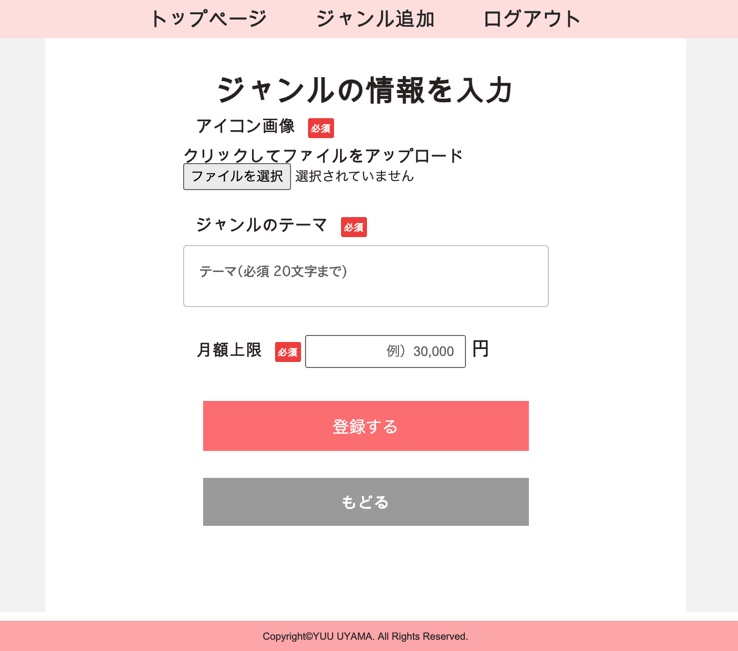
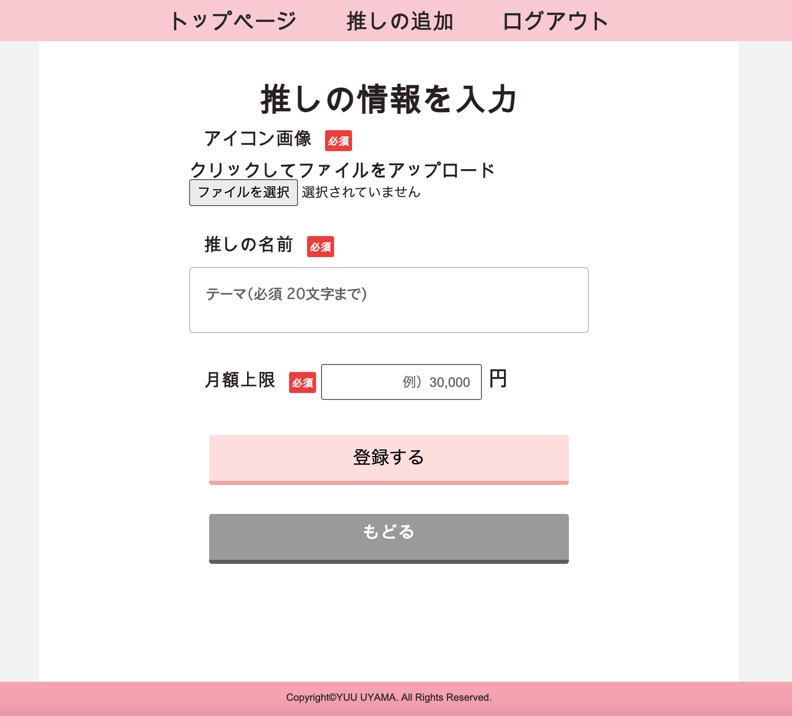
デザイン変更

diff --git a/app/assets/stylesheets/items.scss b/app/assets/stylesheets/items.scss
@@ -5,7 +5,7 @@
 /* アイテムリスト */
 .item-list{
   list-style: none;
-  background-color:#fbd7d7;
+  background-color:#d6ebff;
 }
 .item-list a{
   text-decoration: none;
@@ -13,7 +13,7 @@
 }
 
 .item-list-sub{
-  background-color: #ffeeee;
+  background-color: #eff7ff;
   font-size: 2.5vmin;
 }
 
@@ -28,13 +28,13 @@ table td {
 
 table {
   border-collapse: collapse;
-  border: solid 2px pink;
+  border: solid 2px #ffffff;
   width: 100%;
   white-space: nowrap;
   }
 
 table th, table td {
-  border: solid 1px pink;
+  border: solid 3px #e0e0e0;
 }
 
 .table-lists{
@@ -48,30 +48,110 @@ table th, table td {
   height: 3vmin;
 }
 
-.add-to{
-  margin: 10px;
-}
 .add-to a{
   text-decoration: none;
-  background-color: #ffe5e5;
   color: #333;
   padding: 3px 20px;
   border-radius: 20px;
 }
 
-.btn{
-  border: solid 2px white;
-  background-color: #ffe5e5;
-  border-radius: 20px;
-  padding: 5px;
+.add-to {
+  margin: 10px;
+  display: inline-block;
+  position: relative;
+  padding: 0.2em 0.8em;
+  text-decoration: none;
+  background: #ffe5e5;/*ボタン色*/
+  color:  #333;
+  border-bottom: solid 5px #fc9c9c;/*ボタン色より暗めに*/
+  border-right: solid 5px #fab1b1;/*ボタン色より暗めに*/
 }
+
+
+.add-to:before {  
+  content: " ";
+  position: absolute;
+  bottom: -5px;
+  left: -1px;
+  width: 0;
+  height: 0;
+  border-width: 0 6px 6px 0px;
+  border-style: solid;
+  border-color: transparent;
+  border-bottom-color: #FFF;
+}
+
+.add-to:after {  
+  content: " ";
+  position: absolute;
+  top: -1px;
+  right: -5px;
+  width: 0;
+  height: 0;
+  border-width: 0px 6px 6px 0px;
+  border-style: solid;
+  border-color: #FFF;
+  border-bottom-color: transparent;
+}
+
+.add-to:active {
+  /*ボタンを押したとき*/
+  border:none;
+  -webkit-transform: translate(6px,6px);
+  transform: translate(6px,6px);
+}
+
+.add-to:after, .btn-square-slant:active:before {
+  content: none;/*ボタンを押すと線が消える*/
+}
+
+
 
 /* Twitter */
-
-.share_link_twitter{
-  border: solid 2px white;
-  background-color: #a7ddff;
-  border-radius: 20px;
-  font-size: 3vmin;
-}
-
+.share_link_twitter {
+    display: inline-block;
+    position: relative;
+    padding: 0.2em 0.8em;
+    text-decoration: none;
+    background: #7ea4f5;/*ボタン色*/
+    color: white;
+    border-bottom: solid 5px #36528c;/*ボタン色より暗めに*/
+    border-right: solid 5px #5375bd;/*ボタン色より暗めに*/
+  }
+  
+  .share_link_twitter:before {  
+    content: " ";
+    position: absolute;
+    bottom: -5px;
+    left: -1px;
+    width: 0;
+    height: 0;
+    border-width: 0 6px 6px 0px;
+    border-style: solid;
+    border-color: transparent;
+    border-bottom-color: #FFF;
+  }
+  
+  .share_link_twitter:after {  
+    content: " ";
+    position: absolute;
+    top: -1px;
+    right: -5px;
+    width: 0;
+    height: 0;
+    border-width: 0px 6px 6px 0px;
+    border-style: solid;
+    border-color: #FFF;
+    border-bottom-color: transparent;
+  }
+  
+  .share_link_twitter:active {
+    /*ボタンを押したとき*/
+    border:none;
+    -webkit-transform: translate(6px,6px);
+    transform: translate(6px,6px);
+  }
+  
+  .share_link_twitter:active:after, .btn-square-slant:active:before {
+    content: none;/*ボタンを押すと線が消える*/
+  }

diff --git a/app/assets/stylesheets/shared/about.scss b/app/assets/stylesheets/shared/about.scss
@@ -1,7 +1,7 @@
 .about-contents{
   width: 100vw;
   padding: 0 0 040px;
-  background-image: image-url('5422.jpg');
+  background-image: image-url('about.jpg');
   background-size: cover;
 }
 
@@ -17,7 +17,7 @@
 }
 .about-content-1{
   width: 100vw;
-  background-color: #fdeff2;
+  background-color: #eff7ff;
   background-size: cover;
   padding: 40px;
 }
@@ -28,7 +28,7 @@
 }
 .about-content-3{
   width: 100vw;
-  background-color:  #fdeff2;
+  background-color: #eff7ff;
   background-size: cover;
   padding: 40px;
 }
@@ -107,7 +107,7 @@
 .balloon3{
   position: relative;
   padding: 20px;
-  background:#f8cfd6;
+  background:#f8c4cd;
   font-size: 2.5vmin;
   text-align: center;
   margin: auto;
@@ -123,7 +123,7 @@
   height: 0;
   left: -15px;
   top: 20px;
-  border-right: 15px solid #f8cfd6;
+  border-right: 15px solid#f8c4cd;
   border-top: 15px solid transparent;
   border-bottom: 15px solid transparent;
 }
@@ -131,7 +131,7 @@
 .balloon4{
   position: relative;
   padding: 20px;
-  background:#fcd8de;
+  background:#fae7ea;
   font-size: 2.5vmin;
   text-align: center;
   margin: auto;
@@ -147,7 +147,7 @@
   height: 0;
   right: -15px;
   top: 20px;
-  border-left: 15px solid #fcd8de;
+  border-left: 15px solid #fae7ea;
   border-top: 15px solid transparent;
   border-bottom: 15px solid transparent;
 }

diff --git a/app/assets/stylesheets/genres/new.css b/app/assets/stylesheets/genres/new.css
@@ -122,21 +122,59 @@
 }
 
 .input-btn {
-  background: #ff8484;
-  border: 1px solid #ff8484;
-  color: #fff;
   width: 100%;
   height: 50px;
   font-size: 2.5vmin;
   margin-bottom: 4vh;
+  text-align: center;
+  border: none;
+}
+
+.input-btn a{
+  color: #333;
+  padding: 5px 20px;
+}
+
+.input-btn {
+  padding: 0.5em 1em;
+  background:#ffe5e5;/*ボタン色*/
+  border-bottom: solid 4px #f8b2b2;
+  border-radius: 3px;
+}
+.input-btn:active {
+  /*ボタンを押したとき*/
+  -webkit-transform: translateY(4px);
+  transform: translateY(4px);/*下に動く*/
+  border-bottom: none;/*線を消す*/
 }
 
 .back-btn {
-  background: #aaa;
-  border: 1px solid #aaa;
-  color: #fff;
-  padding: 15px 20%;
   text-decoration: none;
   font-size: 2.5vmin;
+  text-align: center;
+}
+
+.back-btn {
+  width: 100%;
+  height: 50px;
+  font-size: 2.5vmin;
+  margin-bottom: 4vh;
+  text-align: center;
+  border: none;
+}
+
+.back-btn {
+  color: #fff;
+  padding: 0.5em 1em;
+  background:#aaa;/*ボタン色*/
+  border-bottom: solid 4px rgb(112, 110, 110);
+  border-radius: 3px;
+}
+
+.back-btn:active {
+  /*ボタンを押したとき*/
+  -webkit-transform: translateY(4px);
+  transform: translateY(4px);/*下に動く*/
+  border-bottom: none;/*線を消す*/
 }
 /* 下部ボタン */

diff --git a/app/javascript/packs/btn.js b/app/javascript/packs/btn.js
@@ -3,7 +3,7 @@ window.addEventListener('load', function(){
   const shareLinkTwitter = document.getElementById("share_link_twitter")
 
   shareLinkTwitter.addEventListener('mouseover', function(){
-    shareLinkTwitter.setAttribute("style", "background-color:#42a0ff")
+    shareLinkTwitter.setAttribute("style", "background-color:#668ad8")
   })
 
   shareLinkTwitter.addEventListener('mouseout', function(){
@@ -13,7 +13,7 @@ window.addEventListener('load', function(){
   const inputBtn = document.getElementById("input-btn")
 
   inputBtn.addEventListener('mouseover', function(){
-    inputBtn.setAttribute("style", "background-color:#ff8484")
+    inputBtn.setAttribute("style", "background-color:#fac9c9")
   })
 
   inputBtn.addEventListener('mouseout', function(){
@@ -23,7 +23,7 @@ window.addEventListener('load', function(){
   const searchBtn = document.getElementById("search-btn")
 
   searchBtn.addEventListener('mouseover', function(){
-    searchBtn.setAttribute("style", "background-color:#ff8484;")
+    searchBtn.setAttribute("style", "background-color:#fac9c9;")
   })
 
   searchBtn.addEventListener('mouseout', function(){

diff --git a/app/assets/stylesheets/genres.scss b/app/assets/stylesheets/genres.scss
@@ -11,7 +11,7 @@
 .title-contents{
   width: 100vw;
   height: 15vh;
-  background-image: image-url('5422.jpg');
+  background-image: image-url('about.jpg');
   background-size: cover;
 }
 
@@ -112,10 +112,25 @@ img{
 
 .search-back a{
   text-decoration: none;
-  background-color: #ffe5e5;
   color: #333;
   padding: 5px 20px;
-  border-radius: 20px;
+}
+
+.search-back {
+  margin: auto;
+  width: 30vw;
+  padding: 0.5em 1em;
+  text-decoration: none;
+  background:#ffe5e5;/*ボタン色*/
+  color: #FFF;
+  border-bottom: solid 4px #f8b2b2;
+  border-radius: 3px;
+}
+.search-back:active {
+  /*ボタンを押したとき*/
+  -webkit-transform: translateY(4px);
+  transform: translateY(4px);/*下に動く*/
+  border-bottom: none;/*線を消す*/
 }
 
 .search-form{

diff --git a/app/assets/stylesheets/shared/header.css b/app/assets/stylesheets/shared/header.css
@@ -11,7 +11,7 @@
   font-size: 1vmin;
   padding: 10px;
   text-align: center;
-  background-color: #ffe5e5;
+  background-color: #fad4da;
 }
 
 .gnav-list {

diff --git a/app/assets/stylesheets/shared/footer.css b/app/assets/stylesheets/shared/footer.css
@@ -1,5 +1,5 @@
 .footer {
-  background-color: #ffb7b7;
+  background-color: #fab5c0;
   width: 100vw;
   height: 40px;
   position: absolute;
